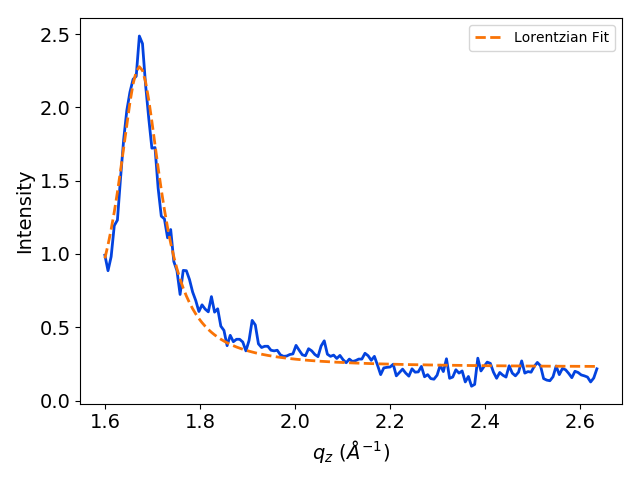
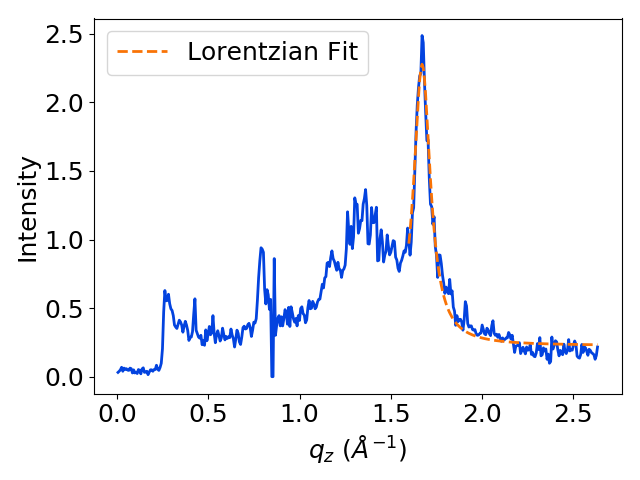
increased fontsize

diff --git a/HII/Scripts/WAXS.py b/HII/Scripts/WAXS.py
@@ -556,7 +556,7 @@ solp_gaussian, cov_x_gaussian = curve_fit(gaussian, Y[start:], zsection, p)
 p = np.array([0.1, 1.7, 1, 0.1])
 solp_lorentz, cov_x_lorentz = curve_fit(lorentz, Y[start:], zsection, p)
 plt.plot(Y[plot_start:], waxs[plot_start:, waxs.shape[0]//2], linewidth=2, color='xkcd:blue')
-plt.plot(Y[start:], gaussian(Y[start:], solp_gaussian[0], solp_gaussian[1], solp_gaussian[2], solp_gaussian[3]), '--', label='Gaussian Fit', linewidth=2)
+#plt.plot(Y[start:], gaussian(Y[start:], solp_gaussian[0], solp_gaussian[1], solp_gaussian[2], solp_gaussian[3]), '--', label='Gaussian Fit', linewidth=2)
 plt.plot(Y[start:], lorentz(Y[start:], solp_lorentz[0], solp_lorentz[1], solp_lorentz[2], solp_lorentz[3]), '--', color='xkcd:orange', label='Lorentzian Fit', linewidth=2)
 
 # print("Lorentzian FWHM = %.2f A^-1" % solp_lorentz[0])
@@ -569,7 +569,7 @@ plt.ylabel('Intensity', fontsize=18)
 plt.gcf().get_axes()[0].tick_params(labelsize=18)
 plt.legend(fontsize=18)
 plt.tight_layout()
-#plt.savefig('/home/bcoscia/PycharmProjects/LLC_Membranes/Ben_Manuscripts/structure_paper/figures/exp_zsection_fit.png')
+plt.savefig('/home/bcoscia/PycharmProjects/LLC_Membranes/Ben_Manuscripts/structure_paper/figures/exp_zsection_fit.png')
 plt.show()
 exit()
 
